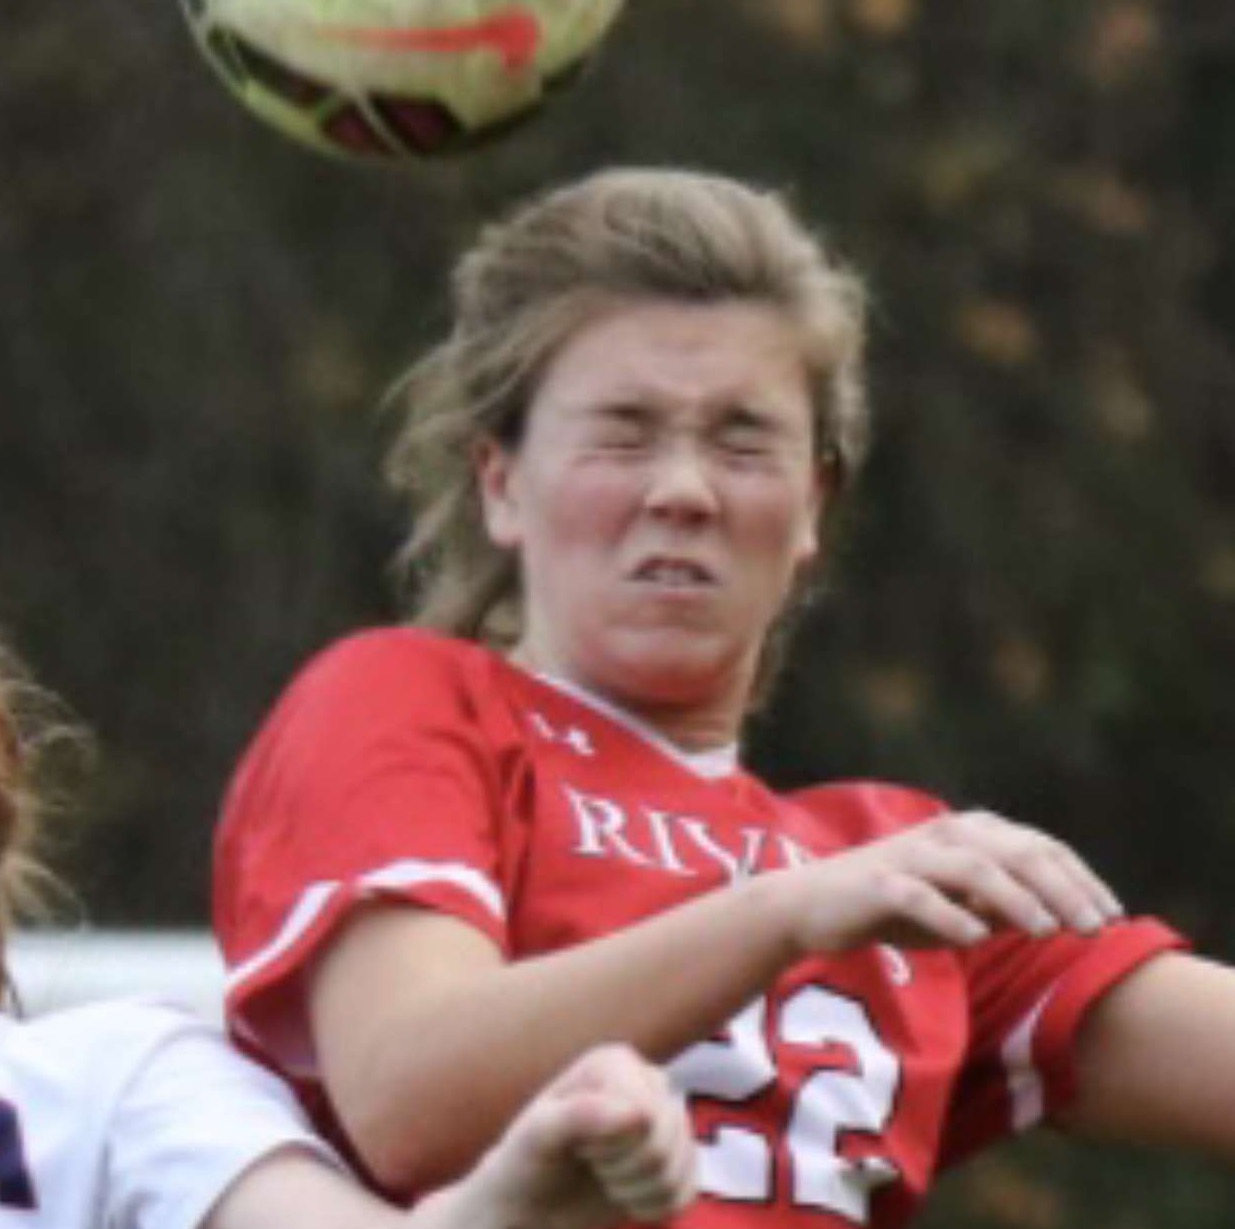
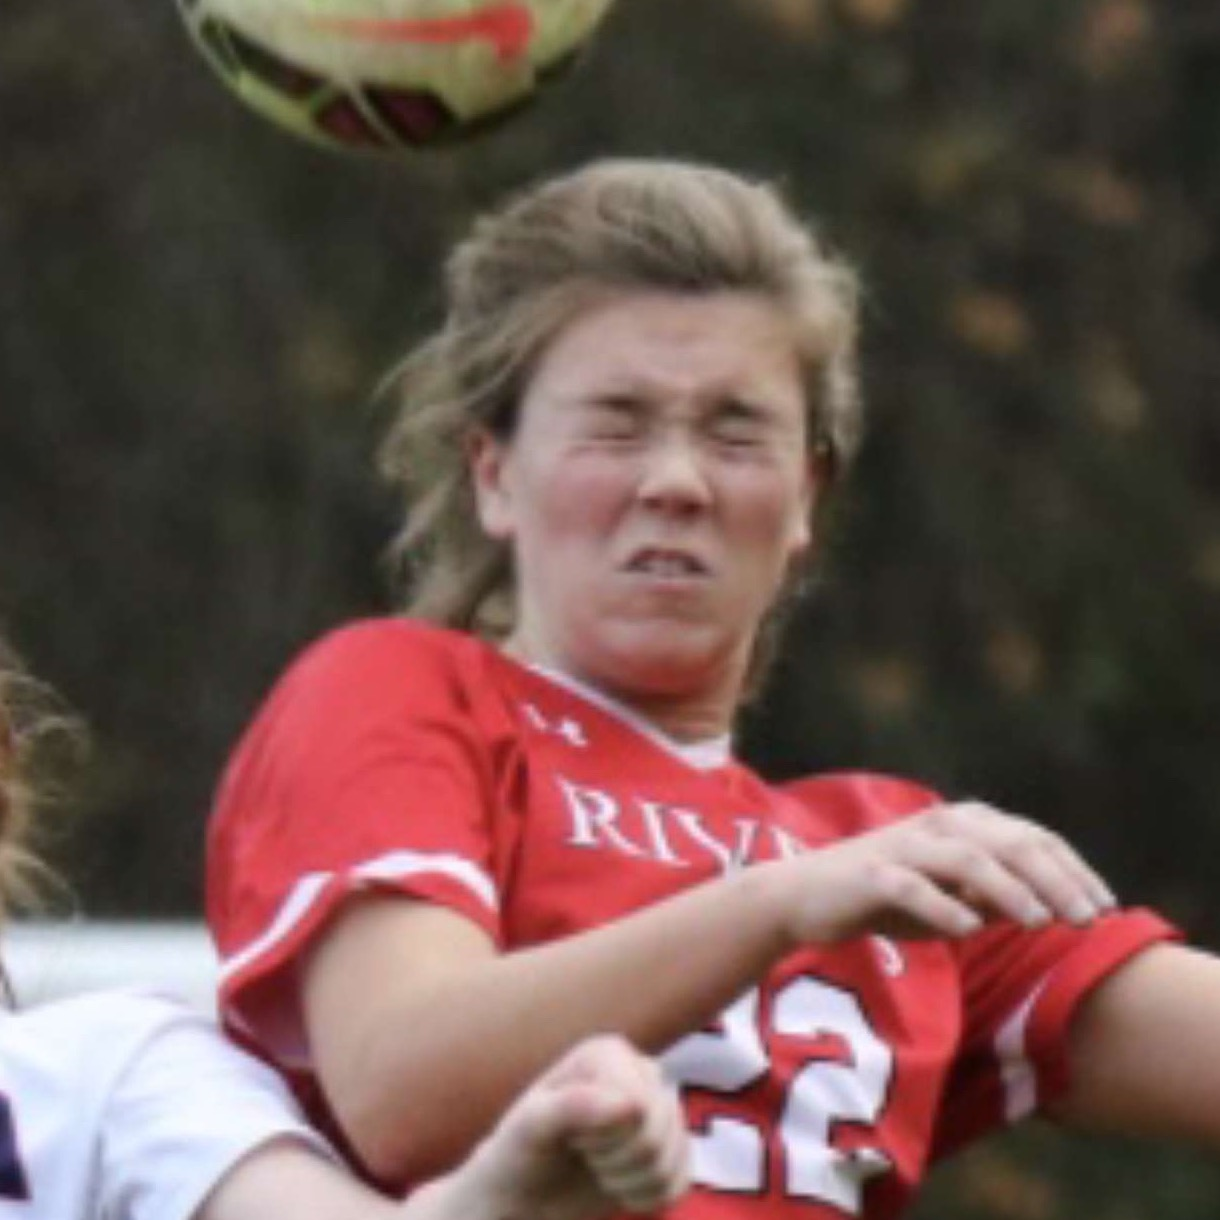
square images

diff --git a/src/BioGallery.js b/src/BioGallery.js
@@ -160,7 +160,7 @@ function BioGallery() {
               <Slider {...sliderSettings}>
                 {bio.images.map((image, idx) => (
                   <div key={idx}>
-                    <img src={image} alt={bio.name} style={{ width: '100%', height: '375px' }} />
+                    <img src={image} alt={bio.name} style={{ width: '100%', height: '100%' }} />
                   </div>
                 ))}
               </Slider>
